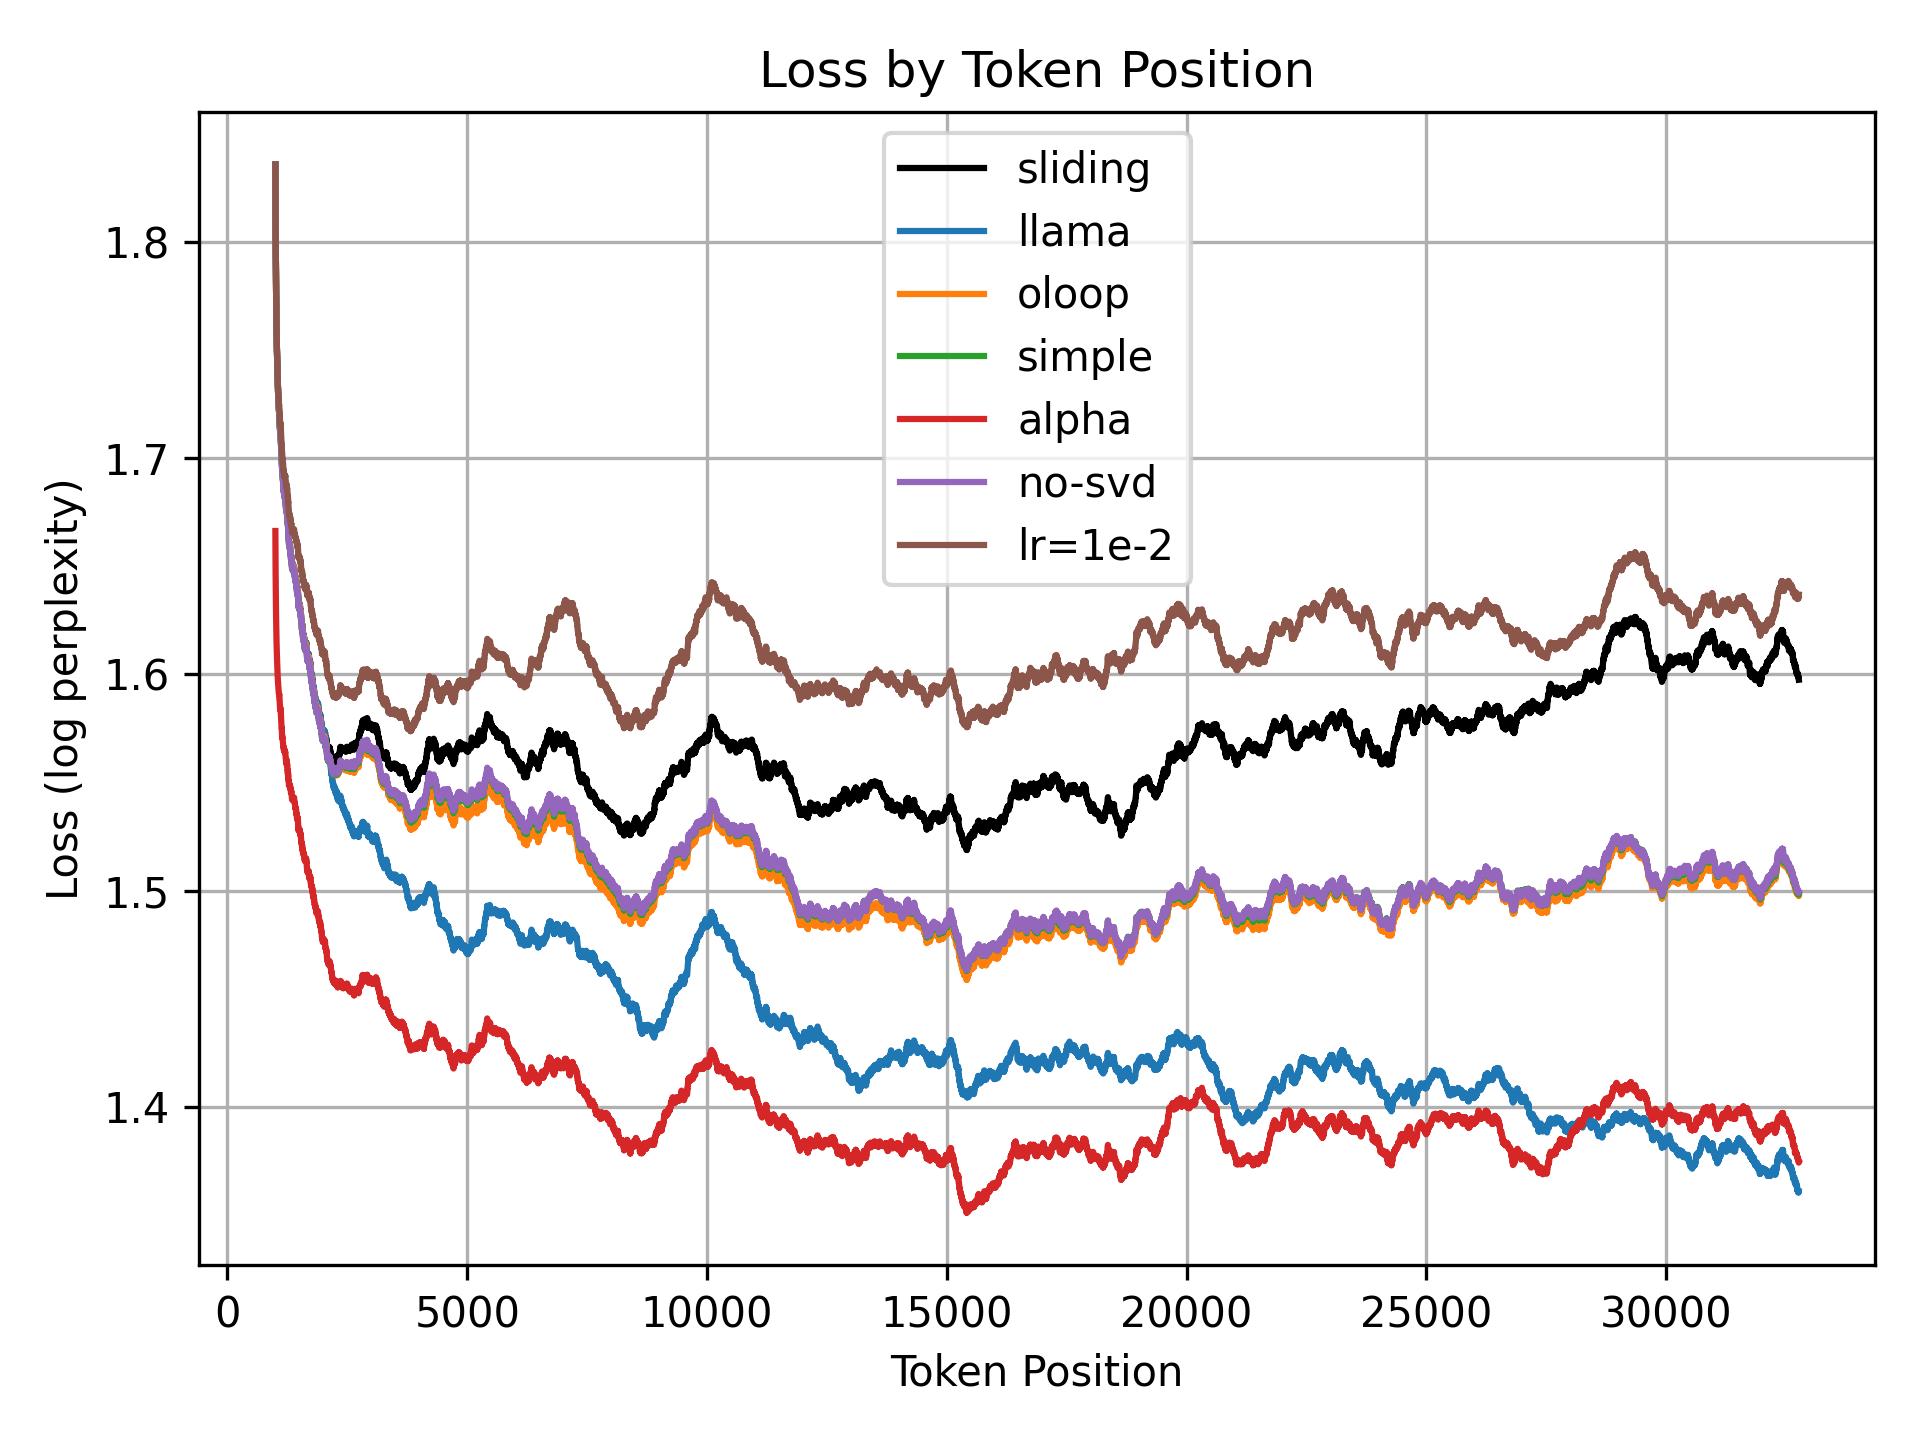
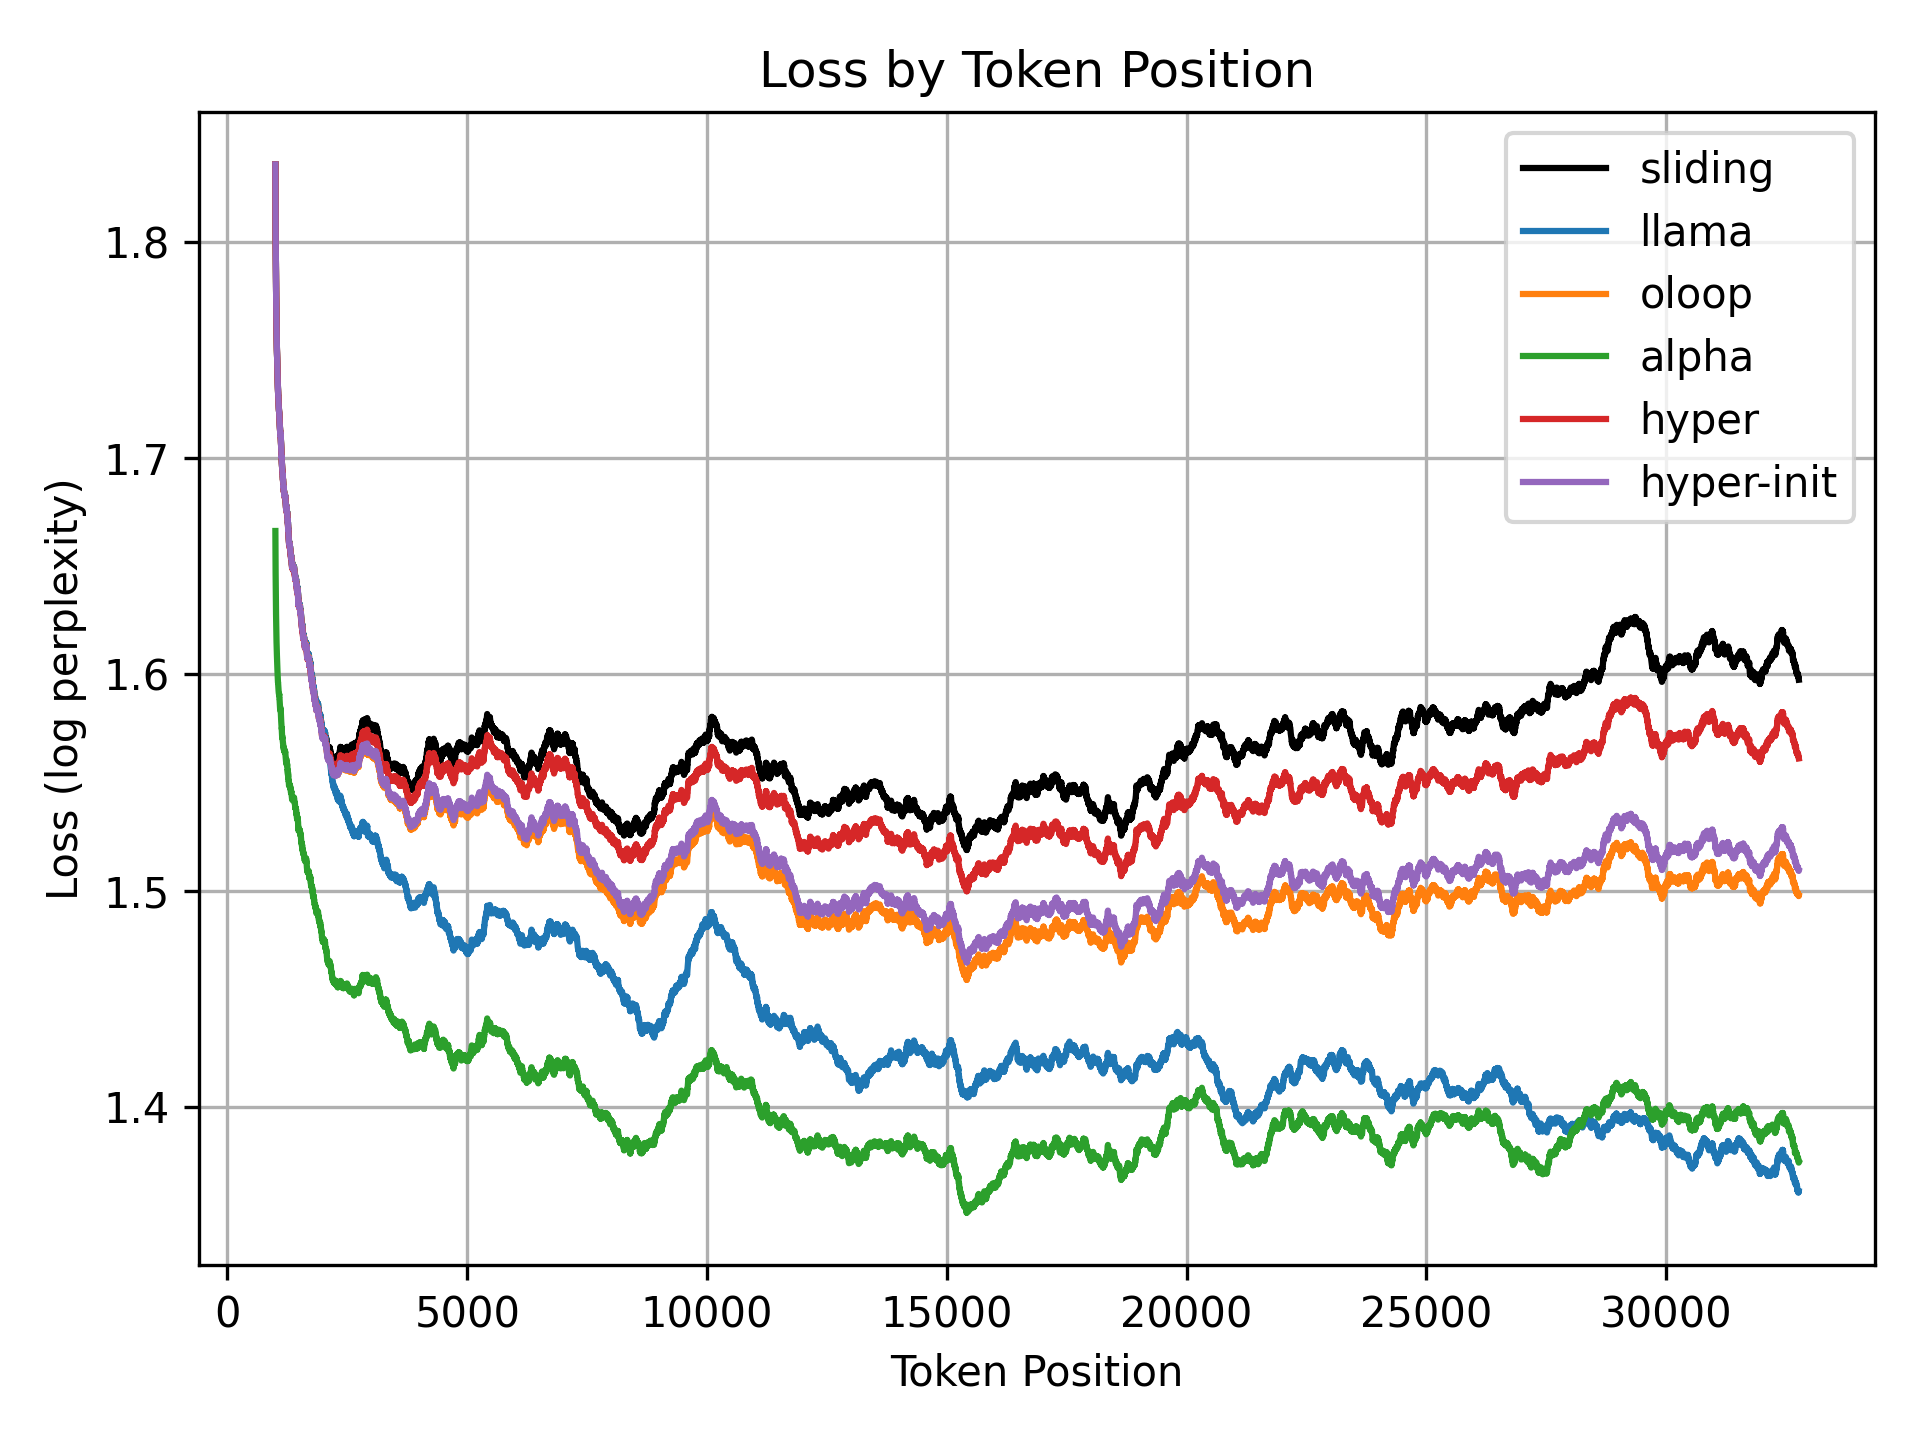
initial implementation of hyper mlp

diff --git a/src/models/oloop.py b/src/models/oloop.py
@@ -51,7 +51,7 @@ class FastWeightFunction(torch.autograd.Function):
         return None, grad, update
 
         
-class FastWeightLoRA(nn.Module):
+class FastWeight(nn.Module):
 
     def __init__(
         self,
@@ -64,7 +64,6 @@ class FastWeightLoRA(nn.Module):
         # save config
         self.in_features = in_features
         self.out_features = out_features
-        self.rank = config.fast_weight_rank
 
         self.base_lr = config.base_lr
         self.momentum_beta = config.momentum_beta
@@ -77,31 +76,13 @@ class FastWeightLoRA(nn.Module):
         
         # ittt params
         self.log_lr = nn.Parameter(
-            torch.zeros(self.rank, self.in_features)
-        )
-        self.fast_out_proj = nn.Linear(
-            self.rank, self.out_features, bias=False
+            torch.zeros(self.out_features, self.in_features)
         )
 
         # ephemeral state
         self.state: nn.Buffer
         self.momentum: nn.Buffer
         self.prev_whitened: nn.Buffer
-
-        # weight initialization
-        self.fast_out_proj.weight.data.normal_(
-            std=1/math.sqrt(self.rank)
-        )
-
-    
-    @torch.no_grad()
-    def svd_init(self, weight):
-
-        u, s, v = torch.linalg.svd(weight, full_matrices=False)
-
-        self.fast_out_proj.weight.copy_(
-            u[:, :self.rank] * s[None, :self.rank]
-        )
                     
 
     def get_lr(self):
@@ -124,8 +105,6 @@ class FastWeightLoRA(nn.Module):
         y = torch.einsum("boi,bli->blo", s, x)
         y = FastWeightFunction.apply(x, y, self.momentum)
 
-        y = self.fast_out_proj(y)
-
         return y
 
 
@@ -133,7 +112,7 @@ class FastWeightLoRA(nn.Module):
     def init_state(self, bs: int, device: torch.device):
 
         state = torch.zeros(
-            bs, self.rank, self.in_features,
+            bs, self.out_features, self.in_features,
             device=device, dtype=self.state_dtype,
         )
         momentum = torch.zeros_like(
@@ -187,14 +166,13 @@ class FastWeightLoRA(nn.Module):
 
         # approximates newton_schulz as a linear function:
         # f(ax) = af(x), f(x+y) = f(x) + f(y)
-        # delta = (
-        #     (new_whitened - self.prev_whitened * self.momentum_beta) /
-        #     (1 - self.momentum_beta)
-        # )
-        delta = new_whitened
+        delta = (
+            (new_whitened - self.prev_whitened * self.momentum_beta) /
+            (1 - self.momentum_beta)
+        )
 
         # scale delta to element-wise scale of 1
-        delta = delta * math.sqrt(max(self.in_features, self.rank))
+        delta = delta * math.sqrt(max(self.in_features, self.out_features))
         
         self.state.add_(-delta.to(self.state_dtype))
         
@@ -213,6 +191,7 @@ class FastWeightMLP(nn.Module):
         
         self.hidden_size = config.hidden_size
         self.intermediate_size = config.intermediate_size
+        self.fast_weight_size = config.fast_weight_size
         
         self.act_fn = ACT2FN[config.hidden_act]
 
@@ -220,17 +199,22 @@ class FastWeightMLP(nn.Module):
         self.up_proj = nn.Linear(self.hidden_size, self.intermediate_size, bias=False)
         self.down_proj = nn.Linear(self.intermediate_size, self.hidden_size, bias=False)
 
-        self.down_fast = FastWeightLoRA(
-            self.intermediate_size, self.hidden_size, config
+        self.gate_fast = nn.Linear(self.hidden_size, self.fast_weight_size, bias=False)
+        self.up_fast = nn.Linear(self.hidden_size, self.fast_weight_size, bias=False)
+        self.fast = FastWeight(
+            self.fast_weight_size, self.fast_weight_size, config
         )
+        self.down_fast = nn.Linear(self.fast_weight_size, self.hidden_size, bias=False)
 
 
     def forward(self, x):
     
-        x = self.act_fn(self.gate_proj(x)) * self.up_proj(x)
+        h_base = self.act_fn(self.gate_proj(x)) * self.up_proj(x)
+        y_base = self.down_proj(h_base)
 
-        y_base = self.down_proj(x)
-        y_fast = self.down_fast(x)
+        h_fast = self.act_fn(self.gate_fast(x)) * self.up_fast(x)
+        h_fast = self.fast(h_fast)
+        y_fast = self.down_fast(h_fast)
 
         return y_base + y_fast
 
@@ -256,10 +240,16 @@ class OLoopModel(LlamaForCausalLM):
             with torch.no_grad():
 
                 for layer in self.model.layers:
-                    layer: LlamaDecoderLayer
+                    mlp: FastWeightMLP = layer.mlp
 
-                    layer.mlp.down_fast.svd_init(
-                        layer.mlp.down_proj.weight.data
+                    mlp.gate_fast.weight.data.copy_(
+                        mlp.gate_proj.weight.data[:mlp.fast_weight_size, :]
+                    )
+                    mlp.up_fast.weight.data.copy_(
+                        mlp.up_proj.weight.data[:mlp.fast_weight_size, :]
+                    )
+                    mlp.down_fast.weight.data.copy_(
+                        mlp.down_proj.weight.data[:, :mlp.fast_weight_size]
                     )
 
         else:
@@ -269,14 +259,14 @@ class OLoopModel(LlamaForCausalLM):
     @torch.no_grad()
     def init_state(self, bs: int, device: torch.device):
         for m in self.modules():
-            if isinstance(m, FastWeightLoRA):
+            if isinstance(m, FastWeight):
                 m.init_state(bs, device)
 
 
     @torch.no_grad()
     def empty_state(self):
         for m in self.modules():
-            if isinstance(m, FastWeightLoRA):
+            if isinstance(m, FastWeight):
                 m.empty_state()
     
 
@@ -285,7 +275,7 @@ class OLoopModel(LlamaForCausalLM):
 
         to_update = []
         for name, mod in self.model.layers[0].named_modules():
-            if isinstance(mod, FastWeightLoRA):
+            if isinstance(mod, FastWeight):
                 to_update.append(name)
 
         for name in to_update:
@@ -297,9 +287,9 @@ class OLoopModel(LlamaForCausalLM):
         # updates named module across all layers in parallel
         
         try:
-            ref: FastWeightLoRA = self.model.layers[0].get_submodule(name)
+            ref: FastWeight = self.model.layers[0].get_submodule(name)
         except:
-            ref: FastWeightLoRA = self.model.layers[0]._orig_mod.get_submodule(name)
+            ref: FastWeight = self.model.layers[0]._orig_mod.get_submodule(name)
 
         updates = []
         momentums = []
@@ -308,9 +298,9 @@ class OLoopModel(LlamaForCausalLM):
             layer: LlamaDecoderLayer
 
             try:
-                m: FastWeightLoRA = layer.get_submodule(name)
+                m: FastWeight = layer.get_submodule(name)
             except:
-                m: FastWeightLoRA = layer._orig_mod.get_submodule(name)
+                m: FastWeight = layer._orig_mod.get_submodule(name)
 
             updates.append(m.momentum.grad)
             momentums.append(m.momentum)
@@ -333,13 +323,12 @@ class OLoopModel(LlamaForCausalLM):
             new_momentums, eps=ref.eps
         )
 
-        # deltas = (
-        #     (new_whiteneds - prev_whiteneds * ref.momentum_beta) /
-        #     (1 - ref.momentum_beta)
-        # )
-        deltas = new_whiteneds
+        deltas = (
+            (new_whiteneds - prev_whiteneds * ref.momentum_beta) /
+            (1 - ref.momentum_beta)
+        )
 
-        deltas = deltas * math.sqrt(max(ref.in_features, ref.rank))
+        deltas = deltas * math.sqrt(max(ref.in_features, ref.out_features))
 
         state_deltas = -deltas.to(ref.state_dtype)
 
@@ -347,9 +336,9 @@ class OLoopModel(LlamaForCausalLM):
             layer: LlamaDecoderLayer
 
             try:
-                m: FastWeightLoRA = layer.get_submodule(name)
+                m: FastWeight = layer.get_submodule(name)
             except:
-                m: FastWeightLoRA = layer._orig_mod.get_submodule(name)
+                m: FastWeight = layer._orig_mod.get_submodule(name)
 
             m.state.add_(state_deltas[:, i].detach())
 

diff --git a/src/compare_oloop.py b/src/compare_oloop.py
@@ -19,7 +19,7 @@ from utils.import_utils import import_model
 
 DEVICE = torch.device("cuda" if torch.cuda.is_available() else "cpu")
 
-NAME = "lr=1e-2" 
+NAME = "hyper-init" 
 
 MODEL_TYPE = "oloop.OLoopModel"
 CONFIG_PATH = "configs/model/oloop-llama3p2-1b.yaml"
@@ -30,8 +30,8 @@ CHECKPOINT_STEP = 0
 MODEL_KWARGS = {
     "attention_kernel": "gpu_flash_attention",
     "chunk_size": 1024,
-    "momentum_beta": 0.75,
-    "base_lr": 1e-2,
+    # "momentum_beta": 0.75,
+    # "base_lr": 1e-2,
 }
 
 DATA_URL = "aklein4/longattn-Llama3-32K"
@@ -61,7 +61,7 @@ def main():
     model = import_model(MODEL_TYPE)(config).to(DEVICE)
     print("Model initialized.")
     model = load_checkpoint_state(
-        model, CHECKPOINT_URL, CHECKPOINT_STEP
+        model, CHECKPOINT_URL, CHECKPOINT_STEP, strict=False
     )
     print("Checkpoint loaded.")
 
@@ -116,11 +116,13 @@ def analyze_results():
         "sliding": load_loss("sliding"),
         "llama": load_loss("llama"),
         "oloop": load_loss("oloop"),
-        "simple": load_loss("simple"),
+        # "simple": load_loss("simple"),
         "alpha": load_loss("alpha"),
         # "lr=3e-3": load_loss("lr=3e-3"),
-        "no-svd": load_loss("no-svd"),
-        "lr=1e-2": load_loss("lr=1e-2"),
+        # "no-svd": load_loss("no-svd"),
+        # "lr=1e-2": load_loss("lr=1e-2"),
+        "hyper": load_loss("hyper"),
+        "hyper-init": load_loss("hyper-init"),
     })
 
     print("\n === Average Losses === ")

diff --git a/src/trainers/oloop_trainer.py b/src/trainers/oloop_trainer.py
@@ -29,7 +29,7 @@ class OLoopTrainer(BaseTrainer):
             if "embed_tokens" in name or "lm_head" in name:
                 embeddings.append(param)
 
-            elif "log_lr" in name or "fast_out_proj" in name:
+            elif "fast" in name:
                 fast.append(param)
 
             else: